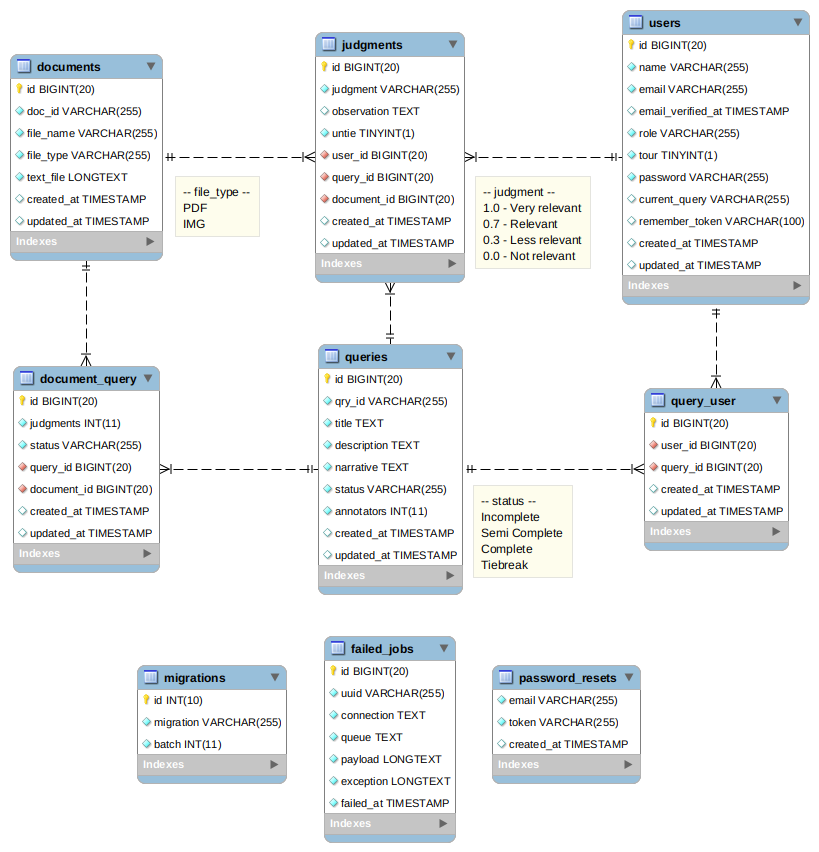
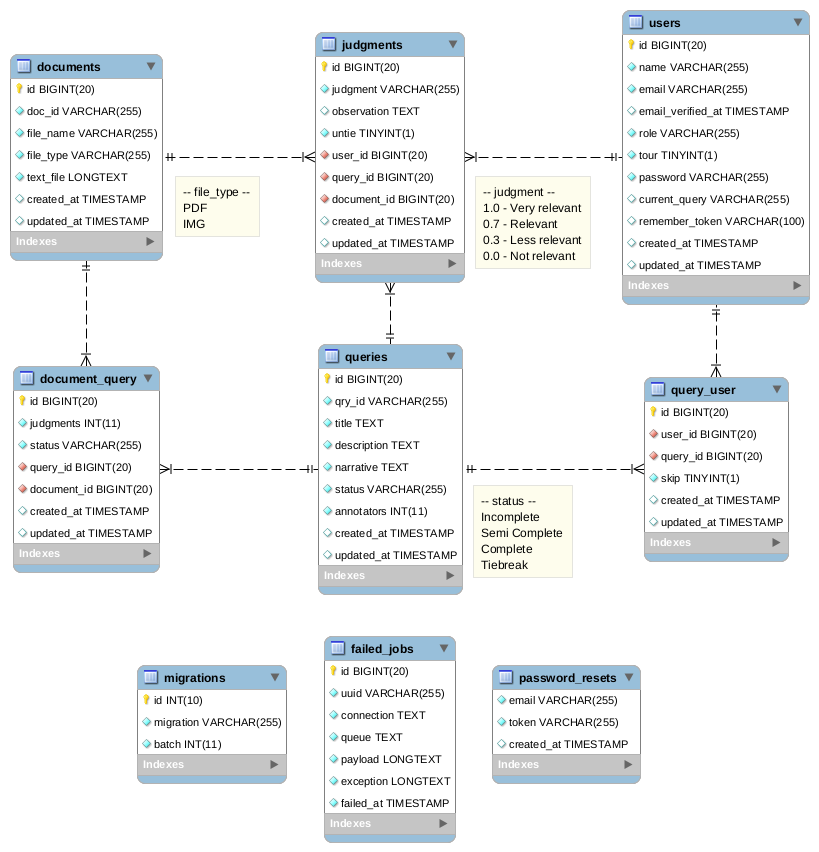
Updated readme and db-model image

diff --git a/README.md b/README.md
@@ -7,9 +7,10 @@ Regis is a system to provide relevance judgments about multimodal documents for 
 * Interface to provide relevance judgments for documents retrieved in response to queries, describing the information need;
 * Adapted to multimodal documents, PDF, text, and images;
 * The system shows the source PDF document and the text extracted from it, with the query words highlighted;
+* The user can skip a query if it demand extra domain knowledge;
 * Each query-document pair are judged by two annotators, in case of disagreement, it's set a tie to that pair;
 * Tiebreak management, where other annotators can solve it and the majority class is selected.
-* Admin controller to follow the annotation progress, users list, and CRUD operations over the documents and queries.
+* Admin controller to follow the annotation progress, manage users role, and CRUD operations over the documents and queries.
 * Download the ```qrels``` file with the result of all relevance judgments.
 
 ## Requirements
